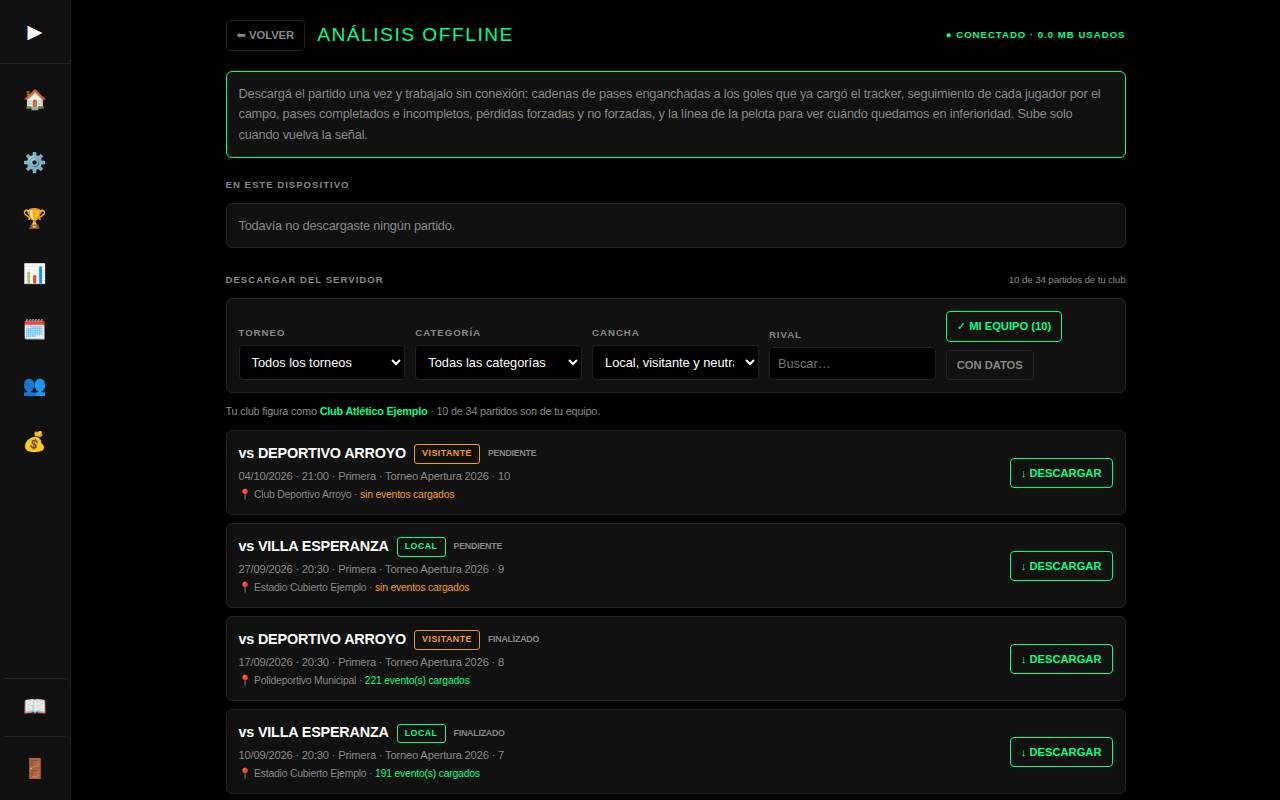
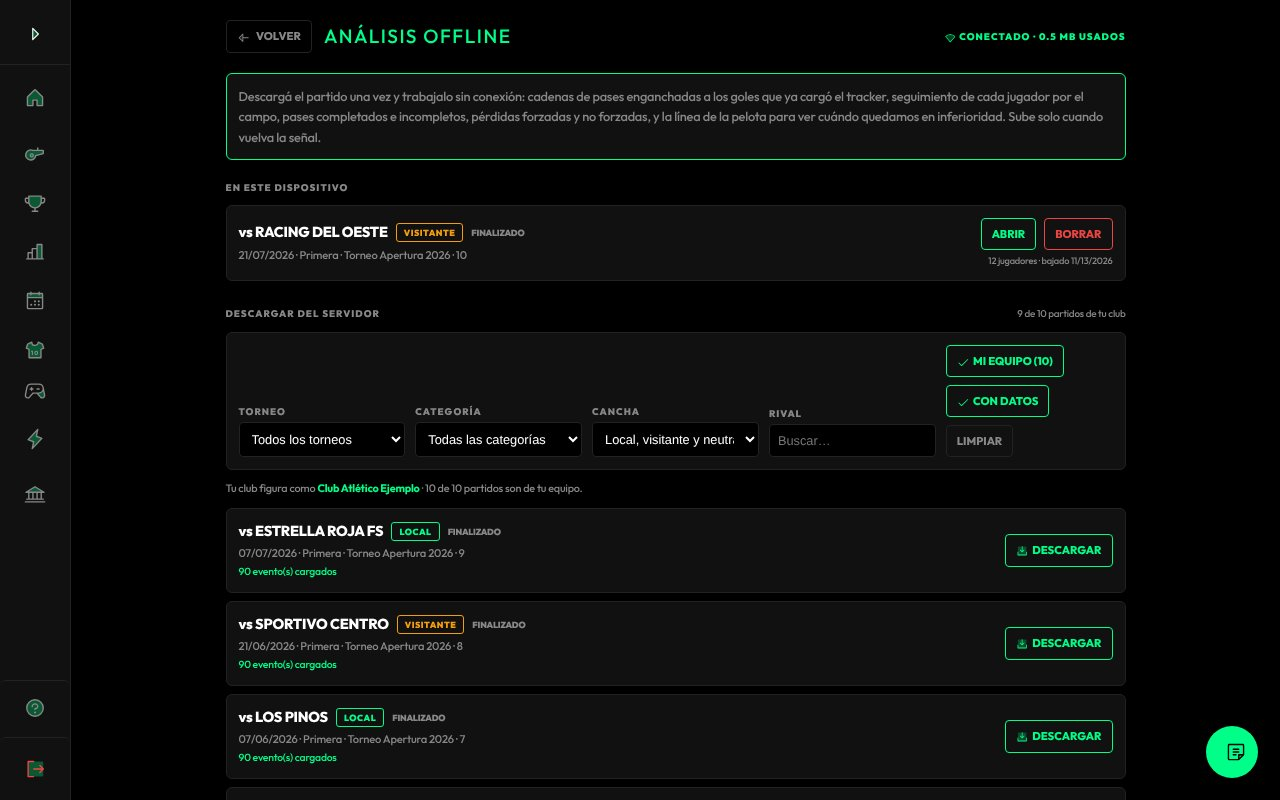
Manual: Análisis offline completo; propuesta de análisis de video por IA
- Análisis offline: bajar el partido, reloj, marcar acciones (teclas),
  zonas, cadenas, fotos y línea de la pelota, pestañas y sincronizar.
  Capturas nuevas con datos de ejemplo (lista y mesa de trabajo).
- docs/ANALISIS_VIDEO_IA.md: qué se puede medir desde el video, con qué
  herramientas libres, cómo se integra con Análisis offline y el plan por etapas.

Claude-Session: https://claude.ai/code/session_01X9zxFYgDEicQ8jdSst2woK

diff --git a/public/manual/index.html b/public/manual/index.html
@@ -496,22 +496,104 @@
   </section>
 
   <section id="offline">
-    <h2>Análisis offline</h2>
+    <h2>Análisis offline <span class="nuevo">ACTUALIZADO</span></h2>
     <p class="ruta">OPERACIONES → <b>ANÁLISIS OFFLINE</b></p>
-    <p>Para analizar con calma sobre un partido que ya se cargó: cadenas de pases, pérdidas forzadas o no forzadas,
-    y el seguimiento posicional. Sirve para profundizar sin la presión del banco.</p>
+    <p>La mesa de trabajo para después del partido. Bajás un partido que ya se cargó en vivo y, sobre eso, sumás lo que en el
+    banco no da el tiempo de marcar: pases y recepciones con origen y destino, cadenas de pases que terminan en gol, pérdidas
+    forzadas o no, la <b>foto</b> de cómo estaban parados los diez y el recorrido de cada jugador.</p>
+    <p>Funciona <b>sin conexión</b>: todo queda guardado en la compu apenas lo marcás, y se sube cuando hay señal.</p>
 
-    <div class="modos">
-      <figure>
-        <img src="offline-pc.jpg" alt="Análisis offline con la barra lateral a mano." loading="lazy">
-        <figcaption><b>En la compu.</b> Análisis offline con la barra lateral a mano. Datos de ejemplo.</figcaption>
-      </figure>
-      <figure>
-        <img src="offline-cel.jpg" alt="Análisis offline en el celular" loading="lazy">
-        <figcaption><b>En el celular.</b> La misma pantalla. Datos de ejemplo.</figcaption>
-      </figure>
+    <figure>
+      <img src="offline-trabajo-pc.jpg" alt="La cancha con las fichas de los dos equipos y la pelota, la línea de la pelota y el panel de acciones a la derecha." loading="lazy">
+      <figcaption><b>La mesa de trabajo.</b> La cancha con las fichas, la línea de la pelota y, a la derecha, las acciones y las pestañas de análisis. Datos de ejemplo.</figcaption>
+    </figure>
+
+    <h3>1. Bajar el partido</h3>
+    <figure>
+      <img src="offline-pc.jpg" alt="La lista de partidos para descargar, con filtros, y los que ya están en el dispositivo." loading="lazy">
+      <figcaption><b>Elegir el partido.</b> Arriba, los que ya bajaste; abajo, los del servidor. Datos de ejemplo.</figcaption>
+    </figure>
+    <ol class="pasos">
+      <li><div><b>Filtrá</b> por torneo, categoría, cancha o rival. <b>MI EQUIPO</b> deja sólo tus partidos (el fixture trae también los de otros equipos) y
+        <b>CON DATOS</b>, sólo los que tienen acciones cargadas.</div></li>
+      <li><div>Tocá <b>DESCARGAR</b>. El partido baja con todo lo que se cargó en vivo y aparece en <b>EN ESTE DISPOSITIVO</b>.</div></li>
+      <li><div>Tocá <b>ABRIR</b>. Desde ese momento ya no hace falta internet. <b>BORRAR</b> lo saca de la compu (lo que no subiste, se pierde).</div></li>
+    </ol>
+
+    <h3>2. El reloj</h3>
+    <p>Arriba están el período (PT / ST), <b>CORRER</b> para que el reloj avance, los botones para moverlo de a 1, 10 o 60 segundos y la barra para ir a cualquier minuto.
+    <b>INICIO PT</b> marca el arranque del período. Cada cosa que marcás queda en el minuto del reloj, así que conviene tenerlo a la par del video.</p>
+
+    <h3>3. Marcar acciones</h3>
+    <p>El tablero tiene dos modos: <b>MARCAR</b> (tocás la cancha y se registra la acción) y <b>MOVER FICHAS</b> (arrastrás jugadores y pelota). Se cambia con <kbd>Tab</kbd>.</p>
+    <ol class="pasos">
+      <li><div>Elegí <b>NUESTRO</b> o <b>RIVAL</b> (verde y rojo, igual que las fichas).</div></li>
+      <li><div>Elegí <b>la acción</b> y <b>el jugador con la pelota</b>.</div></li>
+      <li><div>Tocá la cancha. <b>Pase, recepción y conducción</b> piden dos toques: de dónde sale y adónde llega. Abajo a la izquierda de la cancha dice qué toque te falta.</div></li>
+      <li><div>Si fue un pase, te pregunta si <b>llegó</b>; si fue una pérdida, si fue <b>forzada o no forzada</b>. Un toque.</div></li>
+    </ol>
+    <div class="tabla-wrap">
+    <table>
+      <thead><tr><th>Acción</th><th>Tecla</th><th>Acción</th><th>Tecla</th></tr></thead>
+      <tbody>
+        <tr><td>Pase</td><td class="num">P</td><td>Remate atajado</td><td class="num">A</td></tr>
+        <tr><td>Recepción</td><td class="num">R</td><td>Remate desviado</td><td class="num">D</td></tr>
+        <tr><td>Conducción</td><td class="num">C</td><td>Remate rebatido</td><td class="num">B</td></tr>
+        <tr><td>Recuperación</td><td class="num">E</td><td>Bloqueo</td><td class="num">I</td></tr>
+        <tr><td>Pérdida</td><td class="num">X</td><td>Duelo ganado</td><td class="num">W</td></tr>
+        <tr><td>Gol</td><td class="num">G</td><td>Duelo perdido</td><td class="num">Q</td></tr>
+      </tbody>
+    </table>
     </div>
-    <p>Funciona <b>sin conexión</b> y sincroniza cuando vuelve internet, así que se puede usar en una cancha sin señal.</p>
+    <p>Además: <kbd>Espacio</kbd> arranca y frena el reloj, <kbd>Esc</kbd> cancela un toque a medias.
+    Opcionalmente marcás el <b>tipo de jugada</b> (contraataque, posicional, pelota parada, portero-jugador, segunda jugada, salida de arquero,
+    presión alta, repliegue): queda pegado a todo lo que marques hasta que lo cambies. En <b>EN CANCHA</b> se indica si se jugó 5v5, 5v4, etc.</p>
+
+    <h3>Las zonas</h3>
+    <p>La cancha se lee en cuatro franjas de 10 metros desde nuestro arco (<b>Z1 a Z4</b>) por tres carriles (<b>I, C, D</b>, desde el que ataca): doce cuadrados.
+    Cada acción guarda su zona sola, y eso permite después preguntas como "las pérdidas no forzadas en Z2-C".</p>
+
+    <h3>Cadenas de pases</h3>
+    <p>La cadena se abre sola cuando marcás la primera acción de una jugada y se va armando con lo que sigue. Para colgarle a un gol
+    que ya cargó el tracker la jugada que lo generó: buscá el gol en <b>EVENTOS</b>, tocá el botón de cadena y cargá la jugada; se engancha sola.</p>
+
+    <h3>4. La foto: cómo estaban parados</h3>
+    <p>En <b>MOVER FICHAS</b> acomodás a los diez y la pelota (la ficha blanca). Para ayudarte:</p>
+    <ul class="lista">
+      <li><b>QUINTETO DE ESTE MINUTO</b> pone en cancha a los que estaban jugando en ese momento, según los cambios cargados.</li>
+      <li><b>Nuestra parada / Parada rival</b> acomoda a un equipo en un sistema de golpe, para después ajustar.</li>
+      <li><b>FIJAR FOTO</b> guarda la posición de todos en ese minuto.</li>
+      <li>Con <b>GRABAR AL MOVER</b> prendido, cada vez que soltás una ficha queda su posición: así se arma el recorrido y el mapa de calor de cada jugador.</li>
+      <li><b>DORSAL / APELLIDO / SIN NOMBRE</b> cambia lo que dice cada ficha; <b>ZONAS</b> muestra u oculta la grilla.</li>
+    </ul>
+    <p><b>La línea de la pelota</b> es la raya vertical que sale de la pelota: todo lo sombreado queda entre la pelota y nuestro arco. Arriba dice cuántos
+    atacan contra cuántos defienden (por ejemplo <b>2v3 · INFERIORIDAD</b>). Es la forma de ver, en cada gol, si nos agarraron mal parados.</p>
+    <p><b>REPRODUCIR</b> vuelve a pasar todo el movimiento que grabaste y <b>EXPORTAR VIDEO</b> lo baja como archivo (de la duración que elijas) para mostrarlo en la charla.</p>
+
+    <h3>5. Las pestañas de análisis</h3>
+    <div class="tabla-wrap">
+    <table>
+      <thead><tr><th>Pestaña</th><th>Qué muestra</th></tr></thead>
+      <tbody>
+        <tr><td>Eventos</td><td>Todo lo marcado, con filtros: todos, goles, en cadena, sólo lo cargado offline. Lo que todavía no se subió lleva una flechita.</td></tr>
+        <tr><td>Goles</td><td>Cada gol con su autor y asistencia, la <b>línea de la pelota</b> en ese momento y la cadena previa. <b>GUARDAR ESTA FOTO EN EL GOL</b> deja la foto pegada al gol.</td></tr>
+        <tr><td>Balance</td><td>Pases completados e incompletos, pérdidas forzadas y no forzadas por zona, y las fotos en las que quedamos en inferioridad.</td></tr>
+        <tr><td>Minutos</td><td>Los tramos en cancha de cada jugador, tomados de los cambios. Si algo no cierra, se corrige a mano.</td></tr>
+        <tr><td>Calor</td><td>Elegís un jugador: su mapa de calor, cuántas muestras hay, su centro de gravedad y cuánto ocupó cada zona.</td></tr>
+      </tbody>
+    </table>
+    </div>
+
+    <h3>6. Subir</h3>
+    <p>Arriba a la derecha dice si estás <b>ONLINE</b> y cuántas cosas faltan subir. <b>SINCRONIZAR</b> las sube; lo que se sube aparece en los
+    análisis del partido para todo el cuerpo técnico.</p>
+
+    <div class="nota ojo">
+      <p><b>Usalo en la compu o en una tablet.</b> En el celular la cancha queda muy chica para marcar con precisión.</p>
+    </div>
+    <div class="nota">
+      <p><b>Dudas en el momento:</b> el botón <b>? CÓMO SE USA</b> abre un resumen con todo esto y los atajos.</p>
+    </div>
   </section>
 
   <section id="torneos">

diff --git a/docs/ANALISIS_VIDEO_IA.md b/docs/ANALISIS_VIDEO_IA.md
@@ -1,0 +1,157 @@
+# Análisis de partidos por IA (video → datos)
+
+> Estado: **propuesta**. Nada de esto está construido todavía. Este documento
+> dice qué se puede lograr, con qué herramientas libres, cómo encaja con lo que
+> ya tiene la app y qué hace falta para arrancar.
+
+## La idea
+
+Se sube el video del partido (archivo MP4 o link de YouTube, Vimeo o Drive). A la
+noche una compu del club lo procesa sola. A la mañana siguiente la app tiene:
+
+- dónde estuvo cada jugador en cada momento (posicionamiento, mapa de calor);
+- cuánto corrió, a qué velocidad y cuántos sprints hizo;
+- quién tocó la pelota y cuántas veces;
+- los pases, las cadenas de pases, las pérdidas y las recuperaciones;
+- los toques reales del arquero;
+- la **foto** de cómo estaban parados los diez en cada gol, a favor y en contra.
+
+## Lo que había antes
+
+`src/pages/VideoTracingIA.jsx` es un prototipo que no está en ningún menú. Funcionaba así:
+
+1. Subía el video a Storage (`futsal_videos`).
+2. El usuario tocaba 4 puntos de la cancha en el video para calibrar.
+3. Mandaba el link a un servidor Python (`/analyze`) que corría en una compu y se
+   exponía con ngrok.
+4. El servidor devolvía, cuadro por cuadro, jugadores con un número de seguimiento.
+5. A mano se asociaba cada número a un jugador y se guardaba todo en `tactical_analysis`.
+
+**El servidor Python nunca se subió al repo**, así que no hay nada que reutilizar
+de esa parte. La tabla `tactical_analysis` tampoco tiene migración en el repo. La
+idea de base (calibrar con puntos y asociar números a jugadores) sí sirve, y se
+mantiene.
+
+## ¿Es posible? Sí, con estos niveles de confianza
+
+La confianza depende sobre todo de **la cámara**. Lo que sigue supone una cámara
+**fija, alta y que tome la cancha entera** (ver "La cámara" más abajo).
+
+| Dato | Confianza esperada | Por qué |
+|---|---|---|
+| Posición de cada jugador, mapa de calor, centro de gravedad | **Alta** | Detectar personas es lo que mejor hacen estos modelos. |
+| Distancia recorrida, velocidad, sprints, aceleraciones | **Alta** con cámara fija | Sale de la posición calibrada en metros. Con cámara que se mueve baja mucho. |
+| Equipo de cada jugador (por color) | **Alta** | Agrupar por color de camiseta es confiable. Arqueros y árbitros se separan aparte. |
+| Quién es cada jugador | **Media → alta con ayuda** | El seguimiento pierde a la gente cuando se cruzan. Lo resolvemos con los cambios que ya carga la toma en vivo (en cada minuto hay sólo 5 candidatos) y una revisión corta a la mañana. Leer el dorsal queda para más adelante. |
+| Pelota | **Media** | Es chica, rápida y queda tapada. Se completa interpolando entre cuadros. |
+| Contactos con la pelota, posesión | **Media** | Salen de "qué jugador está pegado a la pelota". |
+| Pases, cadenas, pérdidas, recuperaciones | **Media** | Salen de los cambios de poseedor: mismo equipo = pase, otro equipo = pérdida/recuperación. |
+| Toques del arquero | **Media-alta** | Pelota que llega al arquero o cambia de dirección cerca de él. |
+| Foto en cada gol | **Alta** | El minuto del gol ya lo tenemos de la toma en vivo: se busca ese cuadro y se toman las posiciones. |
+| Remates | **Media** | Pelota que sale rápido hacia el arco. Se cruza con los remates de la toma en vivo. |
+
+Todo lo de confianza media se guarda **con su nivel de confianza**. A la mañana la
+app muestra primero lo dudoso para confirmarlo con un toque.
+
+## Cómo encaja con lo que ya existe
+
+El **Análisis Offline** ya tiene casi todo el modelo de datos que la IA necesita
+llenar: eventos con origen y destino, cadenas (`secuencias`), fotos (`snapshots`),
+recorridos de cada ficha, la línea de la pelota y el mapa de calor. La IA pasa a ser
+**un Análisis Offline que se carga solo**:
+
+- lo que detecta se escribe con `origen = 'ia'` y su confianza;
+- las pestañas de Goles, Balance, Minutos y Calor funcionan sin cambios;
+- lo que el cuerpo técnico corrige a mano queda marcado como corregido (y sirve para
+  entrenar mejor el modelo).
+
+La **toma en vivo** ayuda mucho: da los minutos de los goles y los cambios. Con eso se
+sabe quiénes estaban en cancha en cada momento.
+
+## Cómo funciona (arquitectura)
+
+```
+App (subir video o pegar link) ──► Supabase: cola "video_analisis"
+                                          │
+        Compu del club (de noche) ◄───────┘  pregunta cada minuto si hay trabajo
+        "Analizador VirtualClub" (Python)
+          1. baja el video (yt-dlp / Storage) y lo normaliza (ffmpeg)
+          2. calibra la cancha (los puntos que marcaste en la app)
+          3. detecta jugadores, arqueros, árbitros y pelota
+          4. sigue a cada uno cuadro a cuadro
+          5. separa los equipos por color
+          6. asocia cada seguimiento a un jugador (cambios de la toma + revisión)
+          7. calcula: velocidades, posesión, pases, cadenas, fotos de gol…
+          8. sube los resultados ──► Supabase (tablas + Storage)
+                                          │
+App a la mañana: aviso "Análisis listo" ◄──┘  + pantalla de revisión
+```
+
+- La compu **sale** a buscar trabajo: no hace falta abrir puertos ni usar ngrok.
+- La compu no tiene la clave maestra de Supabase: usa una llave propia del club que
+  sólo puede tomar trabajos y subir resultados de ese club.
+- Si se corta la luz o internet, retoma donde quedó.
+
+## Herramientas (todas gratis)
+
+Elegidas para que se puedan usar en un producto comercial sin pagar licencias.
+
+| Para qué | Herramienta | Licencia |
+|---|---|---|
+| Detectar jugadores y pelota | **RF-DETR** (tamaños Nano/Small/Medium) o **RT-DETR** | Apache 2.0 |
+| Seguimiento cuadro a cuadro, conteos, dibujos | **supervision** + **ByteTrack** (Roboflow) | MIT |
+| Equipos por color, radar, calibración de cancha (ejemplos de fútbol) | **roboflow/sports** | MIT |
+| Bajar videos de YouTube, Vimeo, Drive | **yt-dlp** | Unlicense |
+| Cortar y normalizar video | **ffmpeg** | LGPL |
+| Datos de futsal para entrenar | Datasets de futsal en Roboflow Universe (varios CC BY 4.0) | Revisar uno por uno |
+| Referencia de todo el circuito (posición, equipo, dorsal) | **SoccerNet sn-gamestate** | Revisar antes de usar código |
+
+**Ojo con YOLO de Ultralytics (YOLOv8/YOLO11):** es AGPL-3.0. Usarlo dentro de un
+servicio comercial obliga a publicar el código o a comprar su licencia. Por eso
+proponemos RF-DETR / RT-DETR.
+
+No encontramos ningún proyecto hecho **para futsal**: todos son de fútbol 11. Lo
+adaptamos: la cancha es otra (40×20), la pelota es distinta y hay mucho más
+contacto. Hace falta entrenar el detector con imágenes de futsal (hay datasets
+públicos y después sumamos cuadros de los partidos del club).
+
+## La cámara (lo que más importa)
+
+| | Recomendado | Aceptable | Difícil |
+|---|---|---|---|
+| Ubicación | Fija, alta (4–6 m o tribuna alta), en la mitad de la cancha | Fija en una esquina alta | A la altura de la cancha |
+| Encuadre | Cancha entera siempre | Casi entera | Sigue la jugada con zoom |
+| Calidad | 1080p, 50 cuadros por segundo | 1080p, 25–30 | 720p o menos |
+
+La **fase 1 sólo soporta cámara fija**. Con cámara que se mueve hay que calibrar
+cuadro por cuadro (detectando las líneas de la cancha): queda para la fase 3.
+
+## La compu que trabaja de noche
+
+- **Ideal:** una PC con placa NVIDIA de 8 GB o más (por ejemplo, una RTX 3060). Un
+  partido debería estar en 1 a 2 horas.
+- **Sin placa de video:** funciona, pero mucho más lento. Analizando menos cuadros
+  por segundo debería entrar en una noche, a costa de perder precisión con la pelota.
+- **Alternativa sin hardware:** alquilar una compu con GPU en la nube sólo mientras
+  procesa. Se paga por uso y no hace falta tener nada prendido en el club.
+- Colab y Kaggle son gratis pero cortan las sesiones: no sirven para dejarlo solo
+  toda la noche.
+
+## Plan por etapas
+
+| Etapa | Qué se entrega | Para validar |
+|---|---|---|
+| **0. Prueba con un video real** | 5 minutos de un partido del club: jugadores detectados y seguidos, radar 2D, velocidades. Un informe con lo que anda y lo que no. | Que con tu cámara la calidad alcance. |
+| **1. El circuito completo** | Subir/pegar link, calibrar en la app, cola, Analizador para la compu, aviso a la mañana. Datos: posicionamiento, mapa de calor, distancias, velocidades, sprints, foto de cada gol. Revisión de identidades. | Un partido entero procesado de noche. |
+| **2. La pelota** | Posesión, contactos, pases, cadenas, pérdidas y recuperaciones, toques del arquero, remates. Todo con confianza y revisión. | Comparar contra un partido cargado a mano en Análisis Offline. |
+| **3. Más automático** | Lectura de dorsales, cámara que se mueve, detector entrenado con las correcciones del club. | Menos revisión a la mañana. |
+
+## Qué necesitamos del club
+
+1. **2 o 3 videos de partidos completos** grabados como se graba siempre (y decirnos
+   cómo está puesta la cámara).
+2. **La compu que va a trabajar de noche:** sistema operativo, si tiene placa de video y cuál.
+3. Para la etapa 2, **2 o 3 horas de alguien** corrigiendo cuadros (dónde está la
+   pelota, quién es quién) para entrenar el detector de futsal.
+4. Seguir cargando la toma en vivo, al menos los goles y los cambios: es lo que
+   permite saber quién es quién sin leer dorsales.
